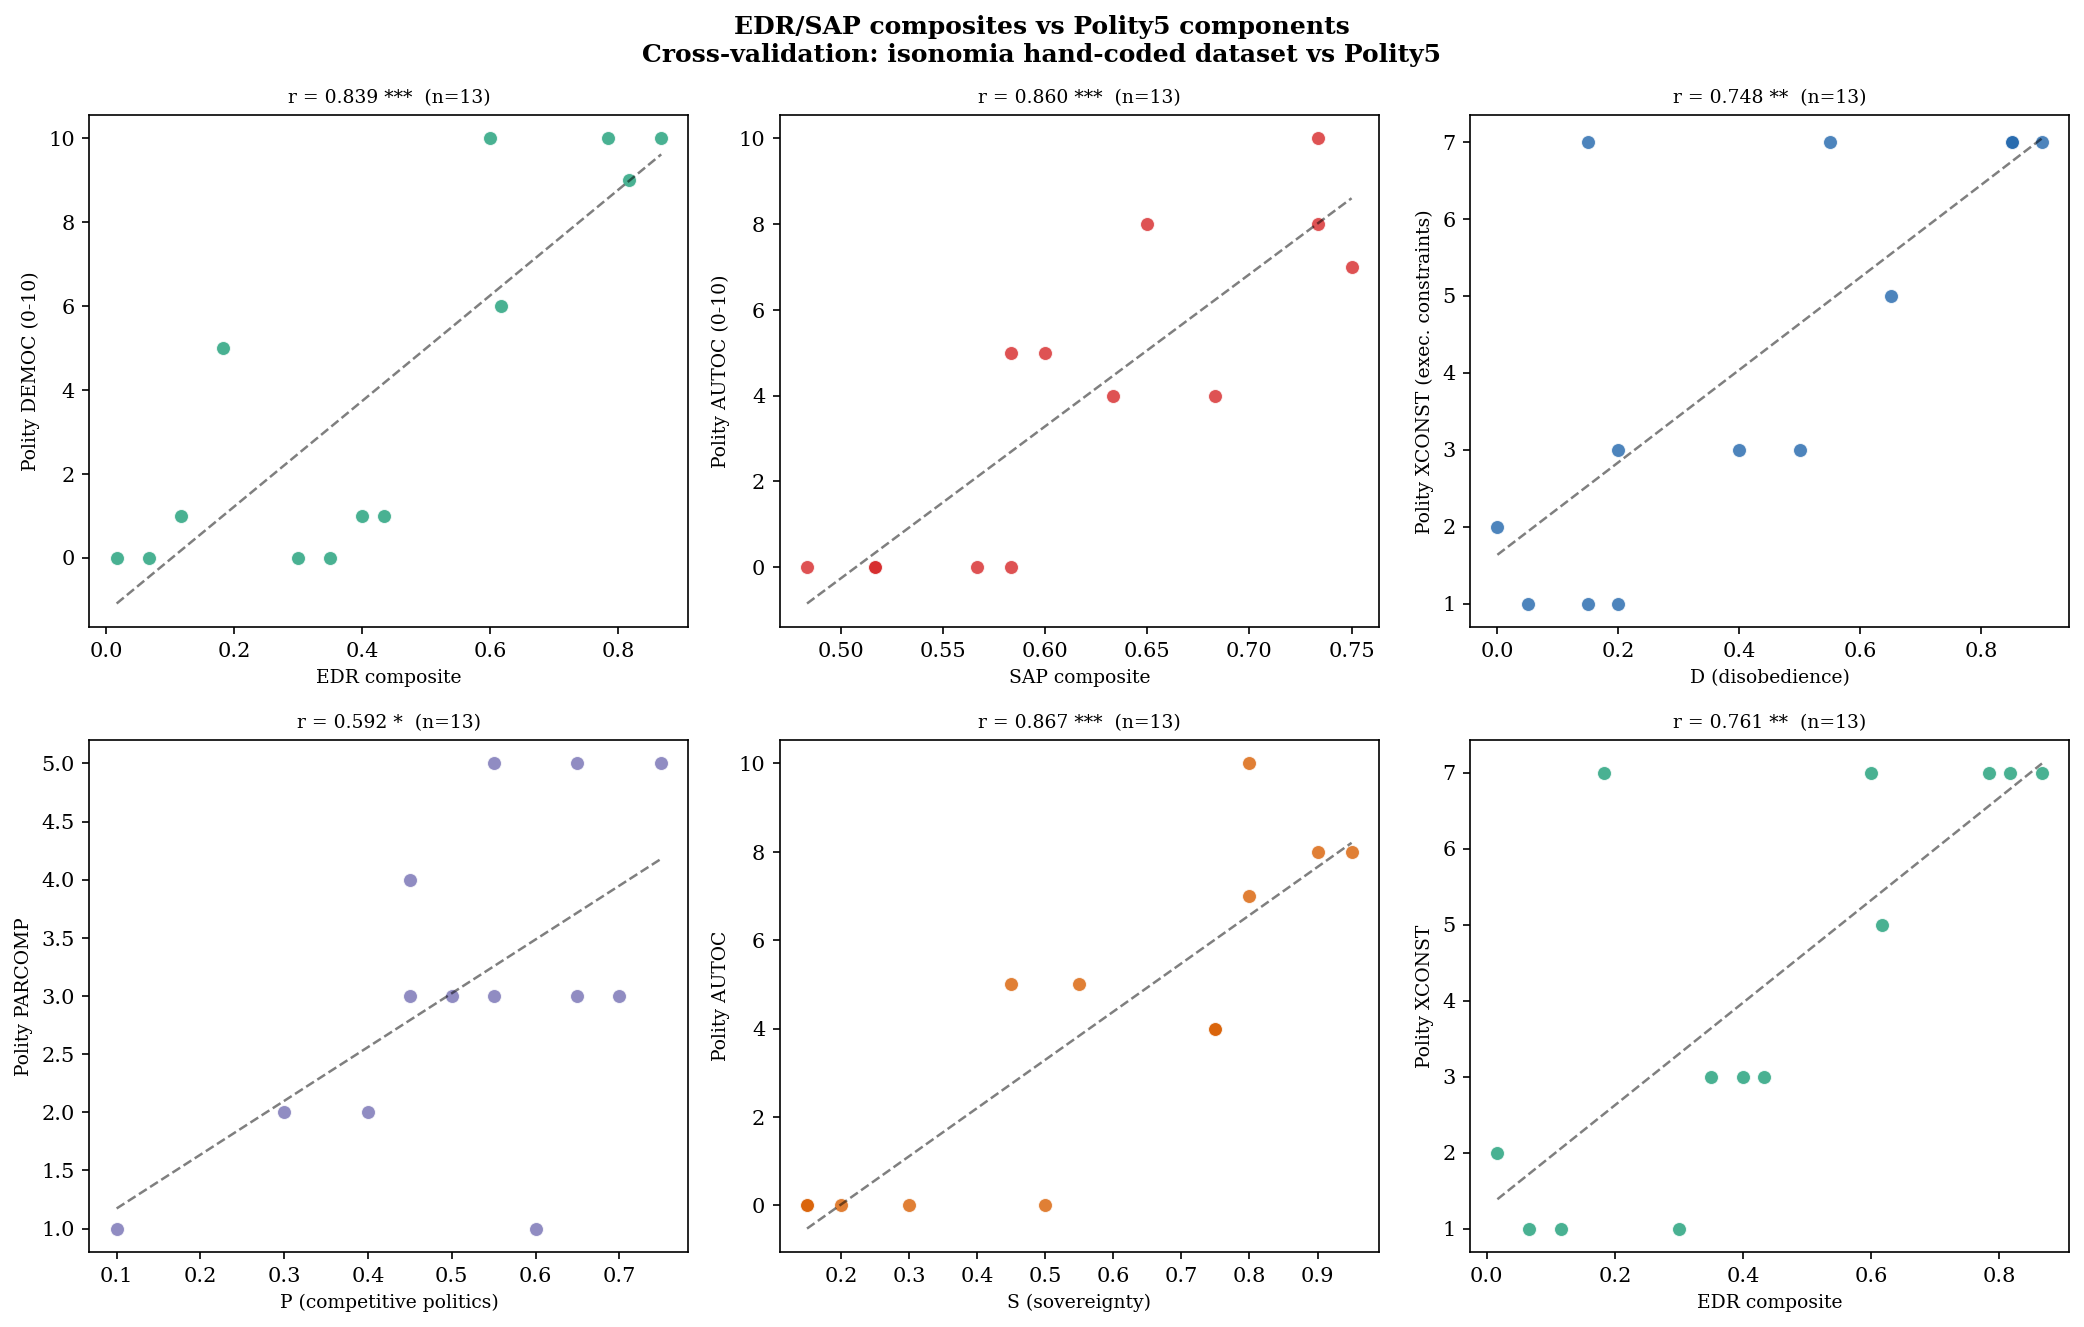
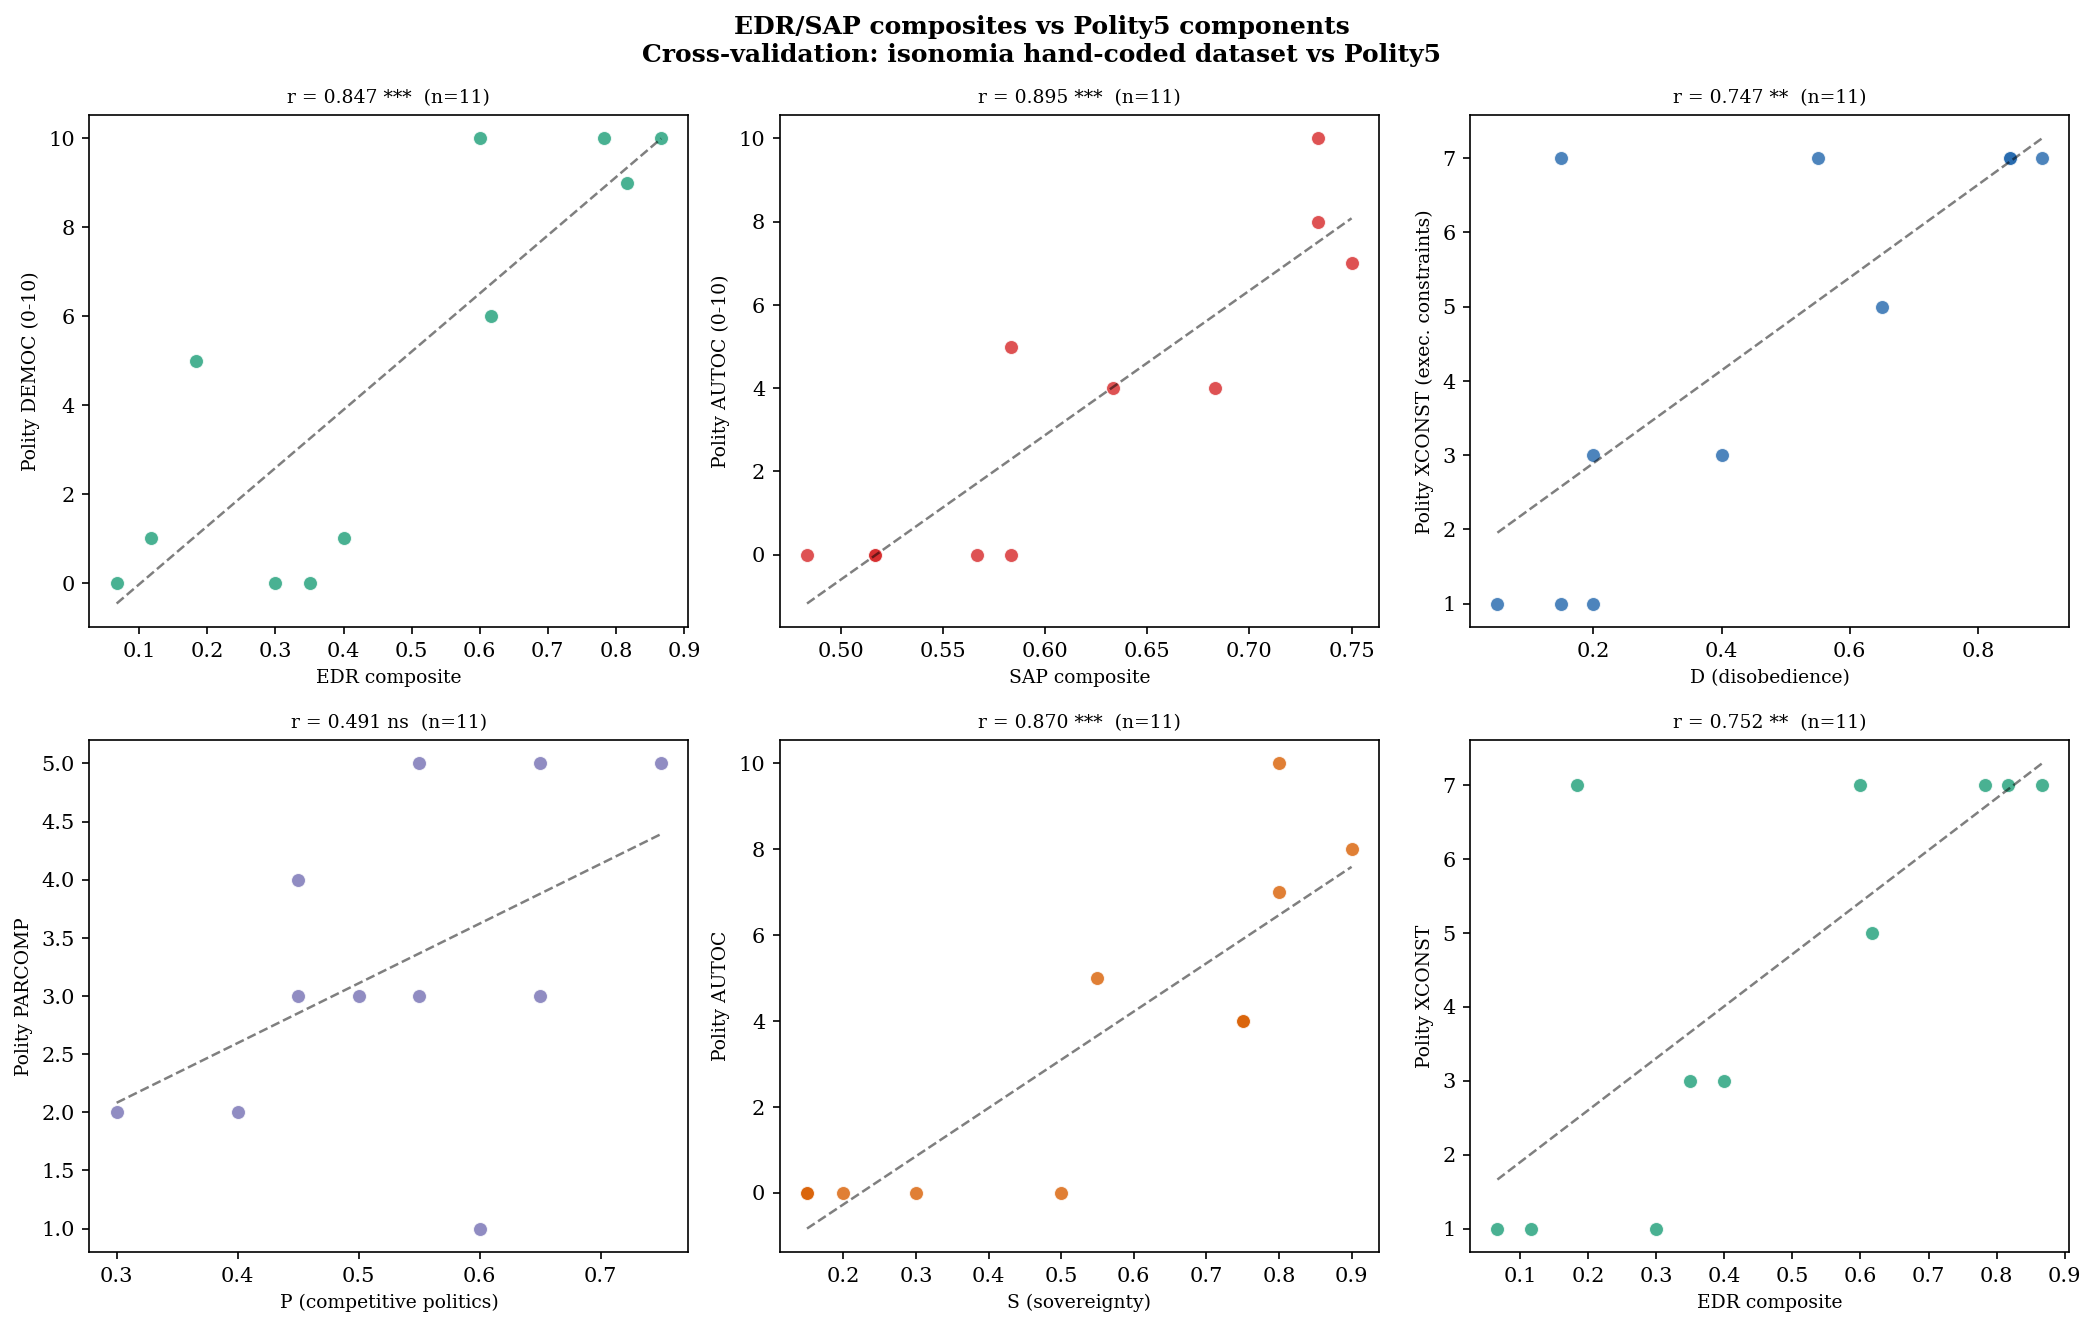
fix: resolve temporal mismatches in V-Dem matched set; add Polity5 rows to CSV

diff --git a/src/crossvalidate_edr.py b/src/crossvalidate_edr.py
@@ -85,7 +85,10 @@ ISONOMIA_TO_MODERN = {
     'Swiss Consensus Democracy':             ('Switzerland',          'CHE', 2000),
     'European Union Governance':             ('Germany',              'DEU', 2010),
     'British Parliamentary System':          ('United Kingdom',       'GBR', 1990),
-    'Dutch Republic States-General':         ('Netherlands',          'NLD', 1800),
+    # NLD 1789: last years of the actual Dutch Republic before French annexation 1795;
+    # V-Dem Netherlands coverage begins 1789. Using 1800 (Batavian/Kingdom of Holland)
+    # was a temporal mismatch — corrected here.
+    'Dutch Republic States-General':         ('Netherlands',          'NLD', 1789),
     'French Fifth Republic':                 ('France',               'FRA', 1990),
     'American Federal Republic':             ('United States',        'USA', 1990),
     'Soviet Republics System':               ('Russia',               'RUS', 1980),
@@ -95,8 +98,14 @@ ISONOMIA_TO_MODERN = {
     'Napoleonic Meritocracy':                ('France',               'FRA', 1810),
     'Ottoman Empire':                        ('Turkey',               'TUR', 1900),
     'Habsburg Composite Monarchy':           ('Austria',              'AUT', 1900),
-    'Qin Legalism':                          ('China',                'CHN', 1949),
-    'Confucian Bureaucracy':                 ('China',                'CHN', 1850),
+    # Qin Legalism (221-206 BCE): removed from V-Dem matched set.
+    # CHN 1949 (PRC founding) was used as proxy but is a structural mismatch —
+    # the near-zero EDR correlation with PRC is coincidental, not meaningful.
+    # Qin is only valid for Seshat cross-validation.
+    # 'Qin Legalism':                        ('China',                'CHN', 1949),
+    # Confucian Bureaucracy: CHN 1900 (late Qing) is still a genuine Confucian
+    # bureaucracy (Qing ended 1912) and is within V-Dem coverage, unlike 1850.
+    'Confucian Bureaucracy':                 ('China',                'CHN', 1900),
     'Indian Panchayati Raj':                 ('India',                'IND', 1995),
     'Apartheid Bantustans':                  ('South Africa',         'ZAF', 1975),
     'Post-Apartheid South Africa':           ('South Africa',         'ZAF', 2000),
@@ -105,9 +114,14 @@ ISONOMIA_TO_MODERN = {
     'Brazilian Military Junta':              ('Brazil',               'BRA', 1970),
     'Weimar Republic':                       ('Germany',              'DEU', 1928),
     'Nazi Germany':                          ('Germany',              'DEU', 1938),
-    'Roman Republic':                        ('Italy',                'ITA', 1870),
+    # Roman Republic (509-27 BCE): removed from V-Dem matched set.
+    # ITA 1870 (post-Risorgimento Kingdom of Italy) is not a meaningful proxy —
+    # temporal gap of ~1900 years. Roman Republic is only valid for Seshat.
+    # 'Roman Republic':                      ('Italy',                'ITA', 1870),
     'Althingi Carbon-Neutral Parliament':    ('Iceland',              'ISL', 2015),
-    'Joseon Confucian Bureaucracy':          ('South Korea',          'KOR', 1870),
+    # Joseon: KOR 1895 is within Joseon (ended 1897), after the 1894 Gabo Reforms
+    # but before Japanese annexation. Using 1870 fell back to 1900 (Protectorate).
+    'Joseon Confucian Bureaucracy':          ('South Korea',          'KOR', 1895),
     'Cossack Hetmanate':                     ('Ukraine',              'UKR', 2010),
 }
 
@@ -173,11 +187,23 @@ def load_vdem(vdem_path):
 
 def match_vdem(iso_systems, vdem):
     """Match isonomia systems to V-Dem entries."""
+    # Systems known to be structurally unmatchable to V-Dem — ancient polities
+    # whose only available proxy is a wrong-era modern state. These are excluded
+    # from correlation calculations but flagged in the CSV for transparency.
+    EXCLUDED_FROM_VDEM = {
+        'Roman Republic',      # 509-27 BCE; ITA 1870 is post-Risorgimento Italy
+        'Qin Legalism',        # 221-206 BCE; CHN 1949 is PRC — spurious match
+    }
+
     matched = []
     for sys_name, (country, iso3, year) in ISONOMIA_TO_MODERN.items():
         if sys_name not in iso_systems:
             continue
+        if sys_name in EXCLUDED_FROM_VDEM:
+            print(f"  Excluded (structural mismatch): {sys_name}")
+            continue
         key = (iso3, year)
+        year_requested = year
         if key not in vdem:
             # Try adjacent years
             for dy in range(1, 6):
@@ -192,8 +218,12 @@ def match_vdem(iso_systems, vdem):
                 continue
         iso = iso_systems[sys_name]
         vd  = vdem[key]
+        # Flag if V-Dem fell back to a different year than requested
+        year_gap = abs(key[1] - year_requested)
+        mismatch = 'year_gap' if year_gap > 2 else ''
         row = {'system': sys_name, 'country': country, 'iso3': iso3,
-               'year': key[1]}
+               'year': key[1], 'year_requested': year_requested,
+               'mismatch_flag': mismatch}
         # isonomia variables
         for k in ['E', 'D', 'R', 'S', 'A', 'P', 'L', 'I', 'EDR', 'SAP']:
             row[f'iso_{k}'] = iso[k]
@@ -209,6 +239,9 @@ def match_vdem(iso_systems, vdem):
                 elif vdem_var.startswith('v2'):
                     val = (val + 4) / 8  # interval → approximate 0-1
                 row[f'vdem_{vdem_var}'] = val
+        if mismatch:
+            print(f"  Year gap ({year_gap}y): {sys_name} requested {year_requested}, "
+                  f"matched {key[1]}")
         matched.append(row)
     print(f"  Matched {len(matched)} isonomia ↔ V-Dem pairs")
     return matched
@@ -429,17 +462,39 @@ def run_polity_validation(iso_systems, polity):
 
 
 def save_matched_csv(vdem_matched, polity_matched):
-    """Save the matched dataset for reproducibility."""
+    """Save the matched dataset for reproducibility.
+
+    Writes both V-Dem and Polity5 matched rows, tagged with a 'source' column
+    ('vdem' or 'polity5'). This makes the CSV usable for residual analysis
+    across both external datasets without needing to re-run the full script.
+    """
+    # Tag each row with its source before merging
+    for r in vdem_matched:
+        r.setdefault('source', 'vdem')
+    for r in polity_matched:
+        r.setdefault('source', 'polity5')
+
+    all_rows = vdem_matched + polity_matched
     all_keys = set()
-    for r in vdem_matched + polity_matched:
+    for r in all_rows:
         all_keys.update(r.keys())
-    all_keys = sorted(all_keys)
+    # Put the most useful identifier columns first, rest alphabetical
+    priority = ['source', 'system', 'country', 'iso3', 'year',
+                'year_requested', 'mismatch_flag',
+                'iso_EDR', 'iso_SAP', 'iso_E', 'iso_D', 'iso_R',
+                'iso_S', 'iso_A', 'iso_P', 'iso_L', 'iso_I']
+    remaining = sorted(k for k in all_keys if k not in priority)
+    fieldnames = [k for k in priority if k in all_keys] + remaining
+
     with open(MATCHED_PATH, 'w', newline='', encoding='utf-8') as f:
-        writer = csv.DictWriter(f, fieldnames=all_keys)
+        writer = csv.DictWriter(f, fieldnames=fieldnames)
         writer.writeheader()
-        for r in vdem_matched:
-            writer.writerow({k: r.get(k, '') for k in all_keys})
-    print(f"\nMatched dataset saved to {MATCHED_PATH}")
+        for r in all_rows:
+            writer.writerow({k: r.get(k, '') for k in fieldnames})
+    n_vdem = len(vdem_matched)
+    n_pol  = len(polity_matched)
+    print(f"\nMatched dataset saved to {MATCHED_PATH} "
+          f"({n_vdem} V-Dem rows + {n_pol} Polity5 rows)")
 
 
 # ── Dry-run mode: show expected matches without external data ─────────────────
@@ -726,6 +781,23 @@ def run_seshat_validation(iso_systems, seshat_path):
                          fontsize=9.5, color=title_col)
             ax.set_xlabel(xl, fontsize=9)
             ax.set_ylabel(yl, fontsize=9)
+
+            # Inca annotation on the I vs ses_I panel: khipu-based administration
+            # scores 0 on Seshat's writing composite but iso_I reflects information
+            # infrastructure more broadly. This is not a coding error.
+            if xk == 'iso_I' and yk == 'ses_I':
+                inca_rows = [(x, y) for x, y, l in zip(xv, yv, lv)
+                             if 'Inca' in l]
+                if inca_rows:
+                    ix, iy = inca_rows[0]
+                    ax.annotate('Inca: khipu\n(non-script I)',
+                                xy=(ix, iy), xytext=(ix + 0.05, iy + 0.12),
+                                fontsize=7, color='#555555', style='italic',
+                                arrowprops=dict(arrowstyle='->', color='#aaaaaa',
+                                                lw=0.8),
+                                bbox=dict(boxstyle='round,pad=0.2',
+                                          fc='#fffbe6', ec='#ccccaa',
+                                          alpha=0.85, lw=0.6))
 
         # Legend panel — ordered by SESHAT_MAPPING for stability
         ax_leg = fig.add_subplot(gs[0, 3])